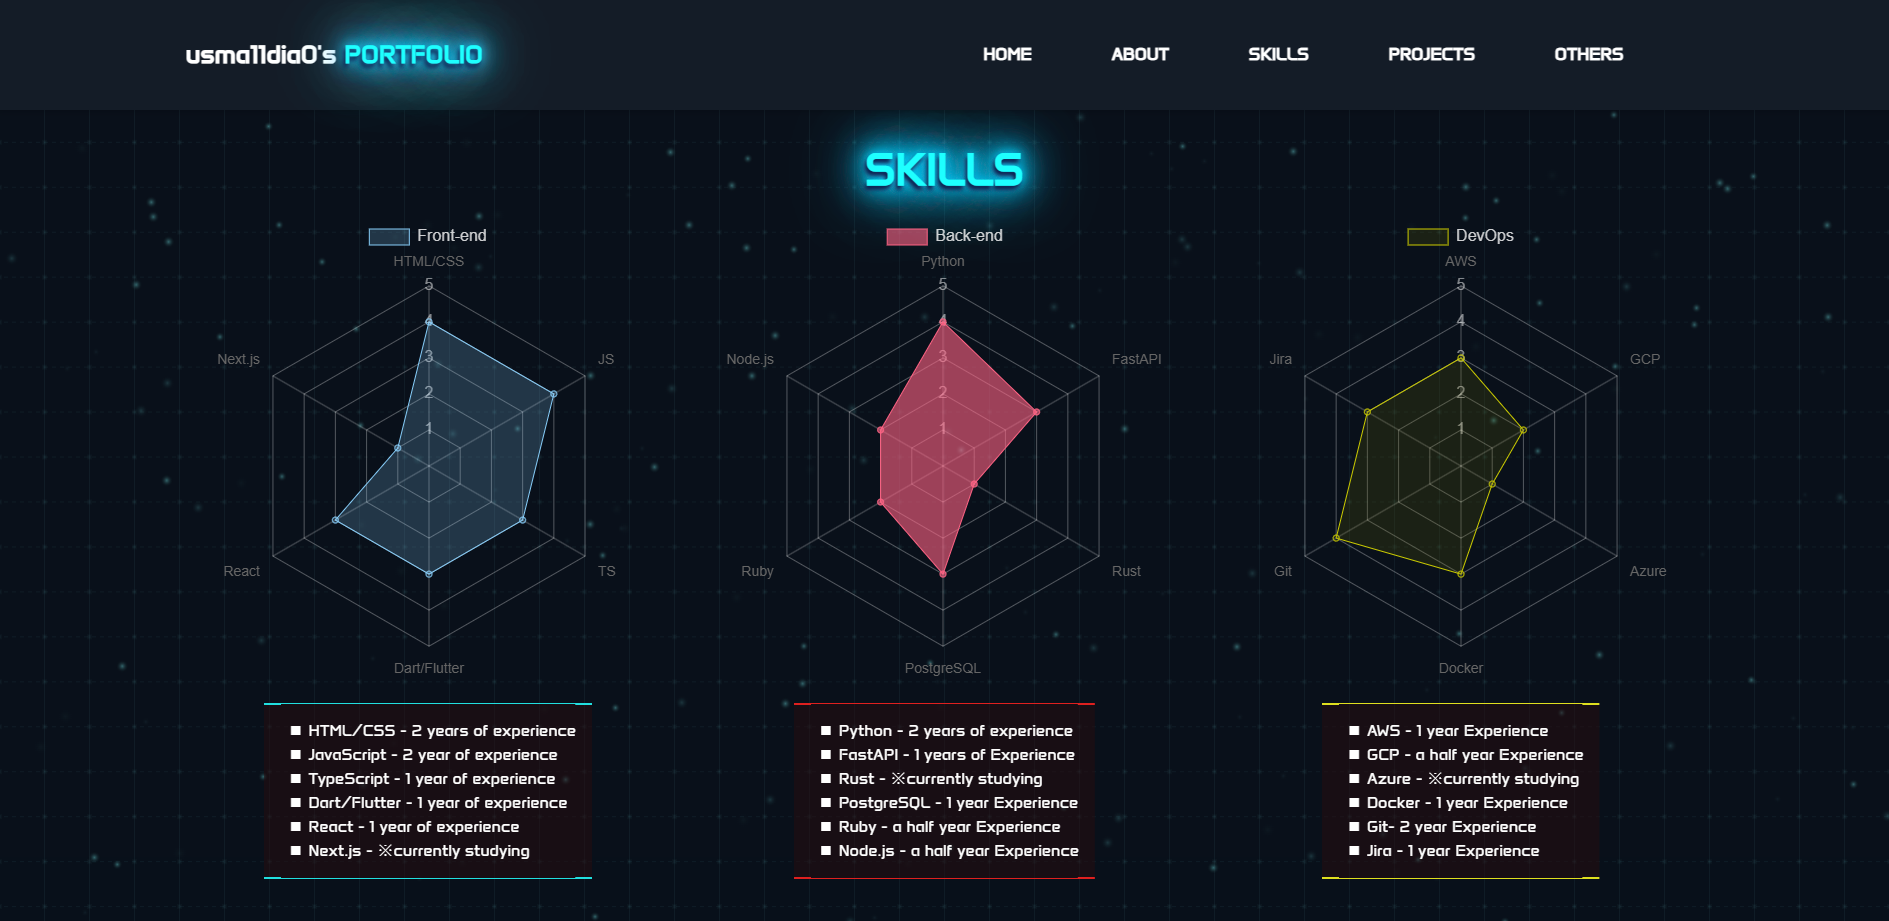
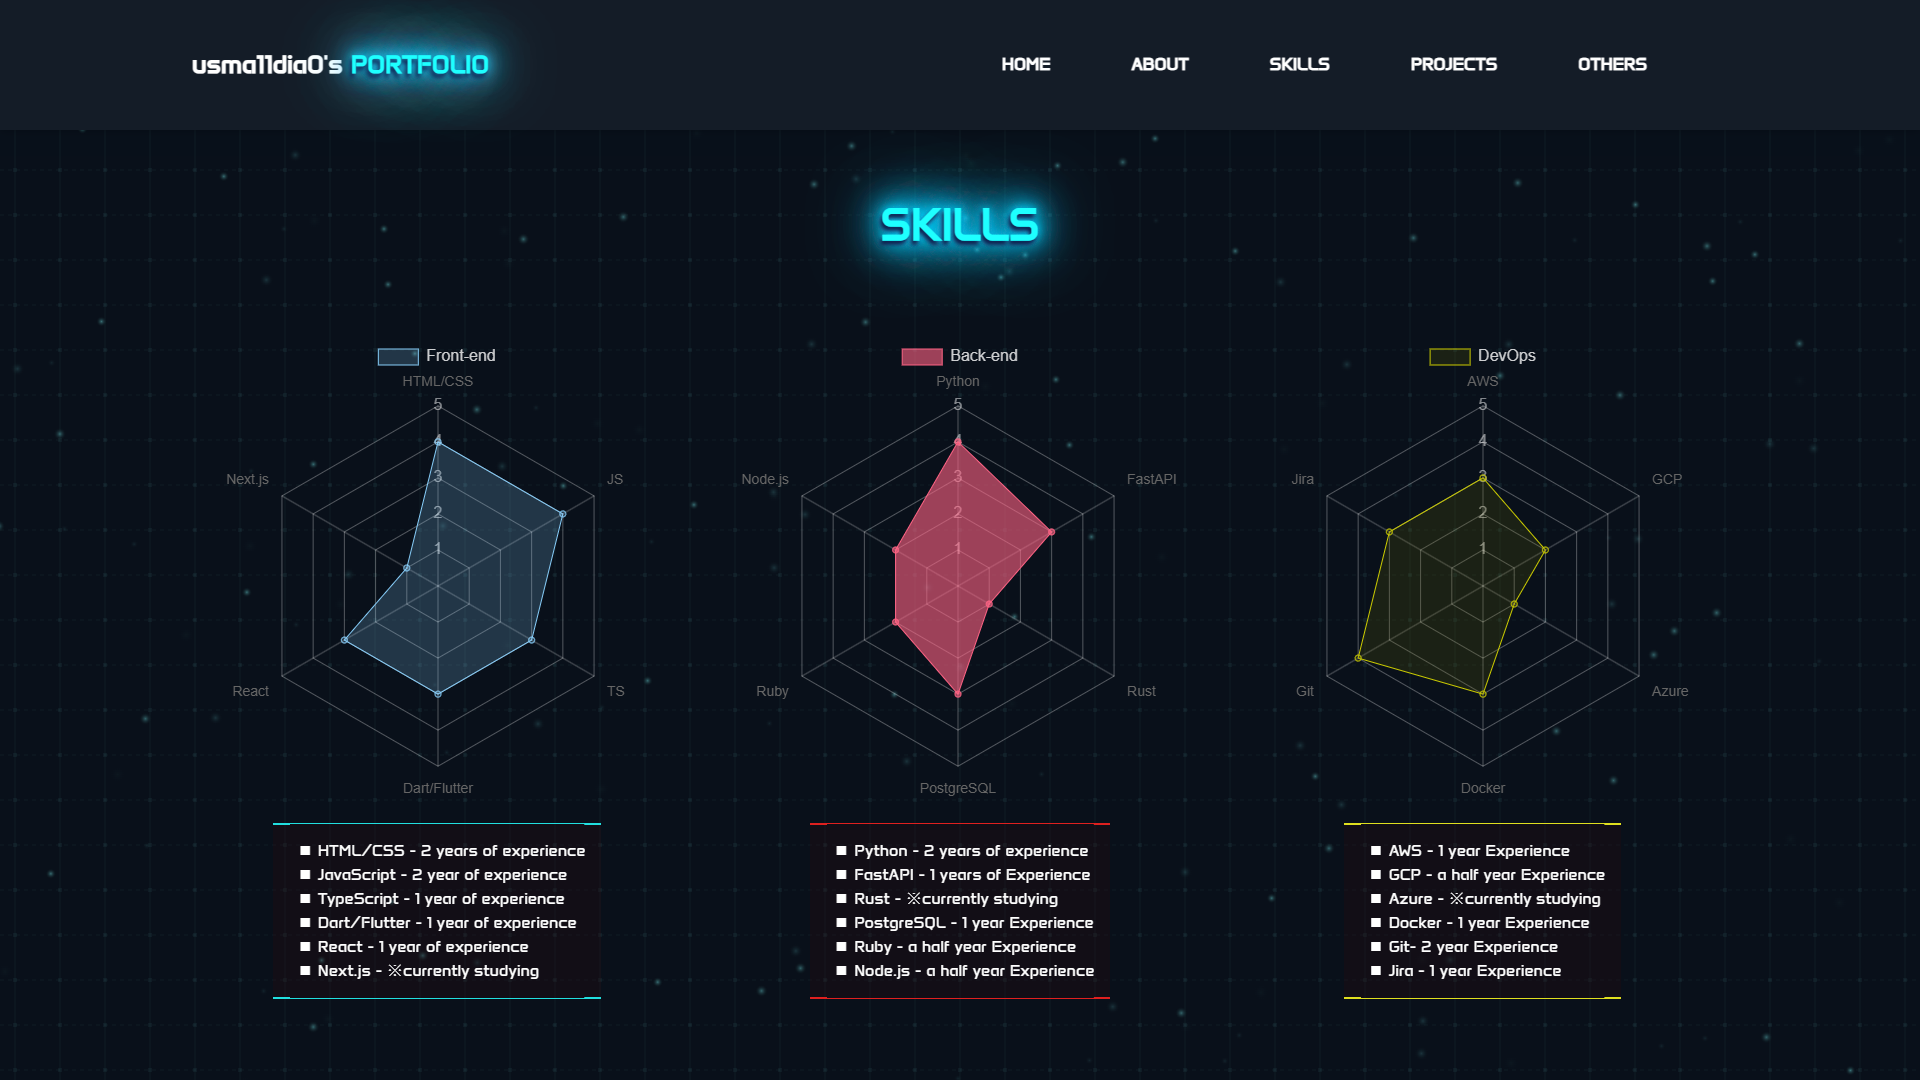
fix: image size

diff --git a/components/projects/projectConfig.ts b/components/projects/projectConfig.ts
@@ -54,23 +54,23 @@ export const PROJECT_PUBLIC_SET:ProjectPublicSetType  = {
       "projectDemoLink": "",
       "projectGithubLink": "https://github.com/usma11dia0/my_portfolio",
       "projectSkills": ["Next.js", "TailWindCSS", "TypeScript", "Vercel", "Framer Motion", "ARWES"]
-    }
+    },
   },
   "japanese-quiz-app": {
     "image": {
-      "mainImageSrc": "/images/projects/portfolio/japanese-quiz-app_main.png",
-      "subImageSrc1": "/images/projects/portfolio/japanese-quiz-app_sub_1.png",
-      "subImageSrc2": "/images/projects/portfolio/japanese-quiz-app_sub_2.png",
-      "subImageSrc3": "/images/projects/portfolio/japanese-quiz-app_sub_3.png",
+      "mainImageSrc": "/images/projects/japanese-quiz-app/japanese-quiz-app_main.png",
+      "subImageSrc1": "/images/projects/japanese-quiz-app/japanese-quiz-app_sub_1.png",
+      "subImageSrc2": "/images/projects/japanese-quiz-app/japanese-quiz-app_sub_2.png",
+      "subImageSrc3": "/images/projects/japanese-quiz-app/japanese-quiz-app_sub_3.png",
     },
     "text": {
       "projectName": "JAPANESE QUIZ APP",
       "projectSummary": "日本語の同音異義語を判別するクイズアプリ",
-      "projectDetails": "発音された同音異義語を当てる問題と、発生した発音が正確かどうかを判定する問題の二つを用意しています。自分の声を用いてモデルの学習から作成しており、発音の判定は自分の声以外だと精度が低いです。",
+      "projectDetails": "発音された同音異義語を当てる問題と、同音異義語の発声が正確かどうかを判定する問題の二種類を作成しました。",
       "projectURLLink": "",
-      "projectDemoLink": "",
-      "projectGithubLink": "",
-      "projectSkills": ["Next.js", "TailWindCSS", "TypeScript", "Vercel", "Framer Motion", "ARWES"]
+      "projectDemoLink": "https://user-images.githubusercontent.com/30208963/192776306-37bb3e9f-31af-4a4e-bb04-457e62ca2ebf.gif",
+      "projectGithubLink": "https://github.com/usma11dia0/japanese_quiz_app",
+      "projectSkills": ["React", "Redux Toolkit", "TypeScript", "Django", "Pytorch", "Firebase", "AWS"]
     }
   }
 }

diff --git a/components/projects/ProjectModal.tsx b/components/projects/ProjectModal.tsx
@@ -134,7 +134,7 @@ const ProjectModal: React.FC<ModalProps> = ({
                       <div 
                         className="
                           grid grid-cols-2 gap-4
-                          pt-6 pl-1 pb-5 w-[75%]
+                          pt-6 pl-2 pb-5 w-[70%]
                           sm:w-[85%] sm:pt-10 sm:pl-0
                           md:pl-8 md:w-[84%]
                           lg:pl-10

diff --git a/components/projects/Projects.tsx b/components/projects/Projects.tsx
@@ -38,7 +38,7 @@ const Projects = () => {
           fadeInSec={0}
         />
         <ProjectCard 
-          projectName='portfolio'
+          projectName='japanese-quiz-app'
           fadeInSec={0.2}
         />
         <ProjectCard 

diff --git a/README.md b/README.md
@@ -10,11 +10,11 @@ https://www.youtube.com/watch?v=ekUQ043k2TQ
 
 #Todo:
 文章の見直し(articles,AIイラスト)
-projects選択時のmodal画面
-　レスポンシブルデザイン対応
-
-READMEの充実化
 デザイン見直し: 英語日本語切替対応
+・Modalなどの表記を確認、画像の固定化
+・画像サイズを統一
+・READMEの記載
+
 
 # ARWES
 https://arwes.dev/play?code=&type=predefined&sandbox=Audio%20Design%7C%40arwes%2Fbleeps%7CcreateBleep%7Cbasic&explorer=true
@@ -24,19 +24,16 @@ https://arwes.dev/play?code=&type=predefined&sandbox=Audio%20Design%7C%40arwes%2
 https://goworkship.com/magazine/neon-effects-webdesign/
 
 
-■レスポンシブデザイン対応
-縦が1024ピクセル、アスペクト比に応じた幅は以下のようになります：
-
-
-・対応サイズ
-
-・ノートPC： 
-幅：1024px　
-高さ：
-    4:3：約1365ピクセル
-    16:10：約1638ピクセル
-    16:9：約1820ピクセル
-
+スクショの際のDeveloperTool
+画像サイズ：1920×1080 75%
+element.style {
+    margin: 0px;
+    height: 30%;
+    width: 65%;
+    background-color: rgb(14, 14, 14);
+    transform: scale(0.90);
+    transform-origin: center;
+}
 
 
 
